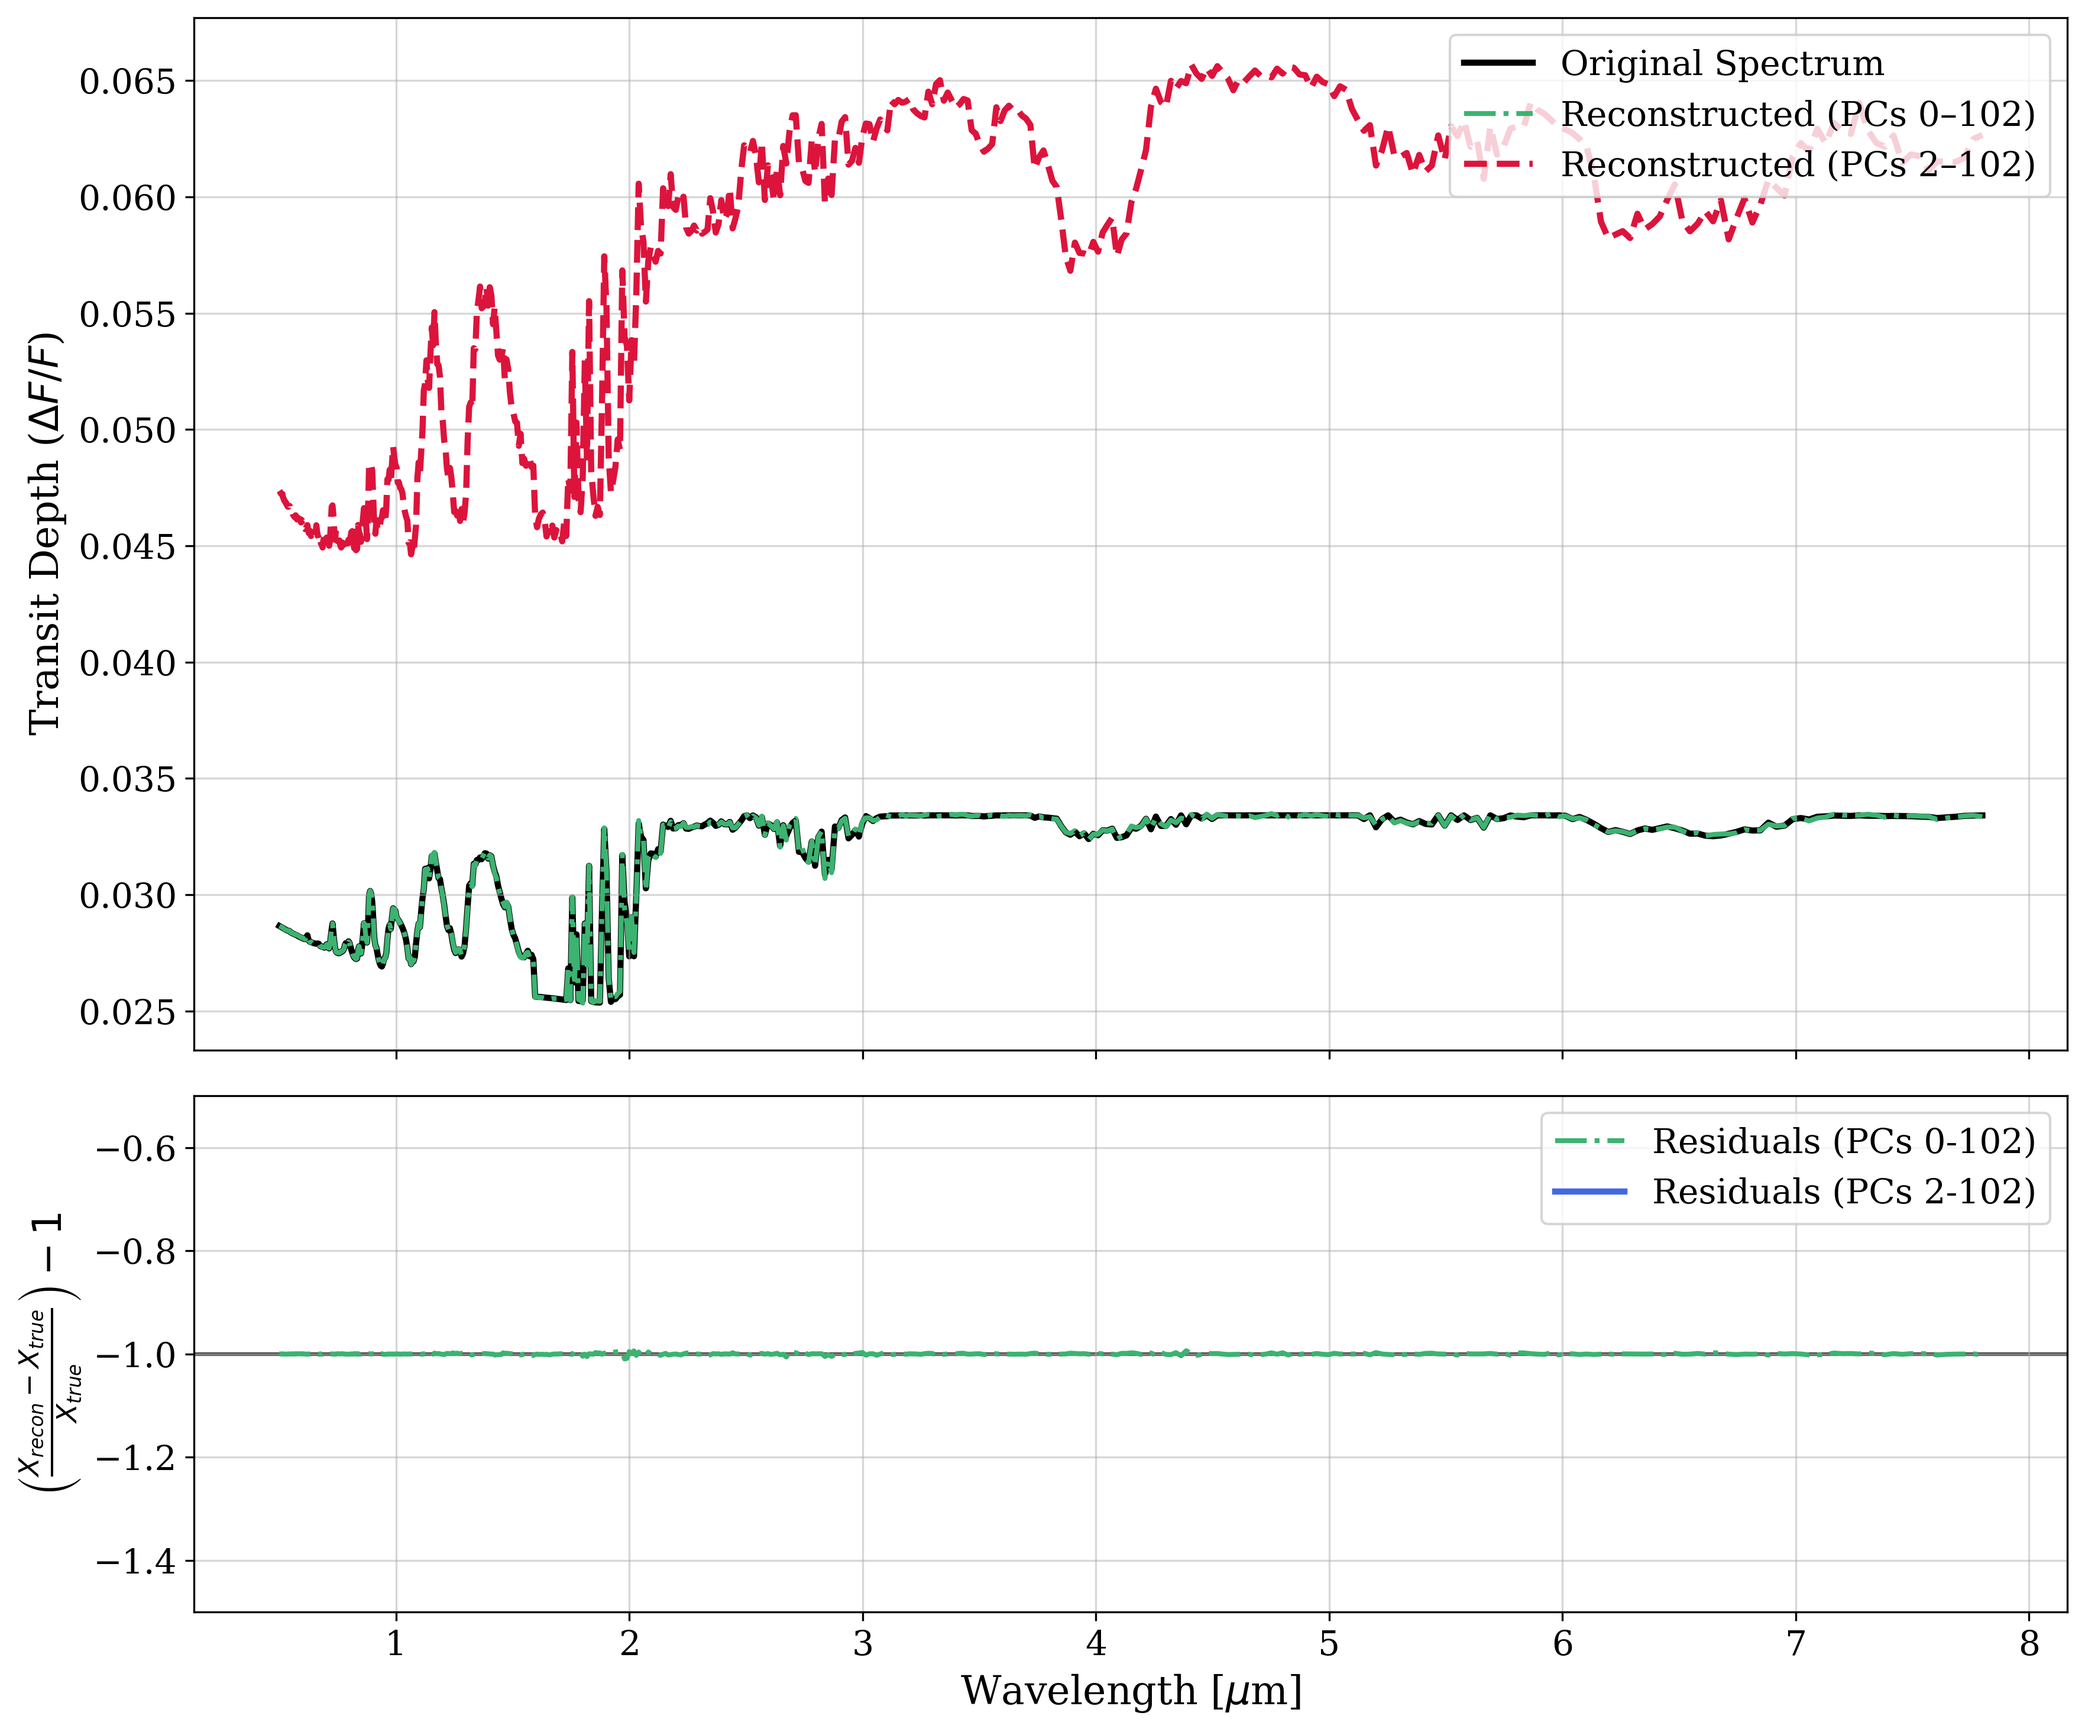
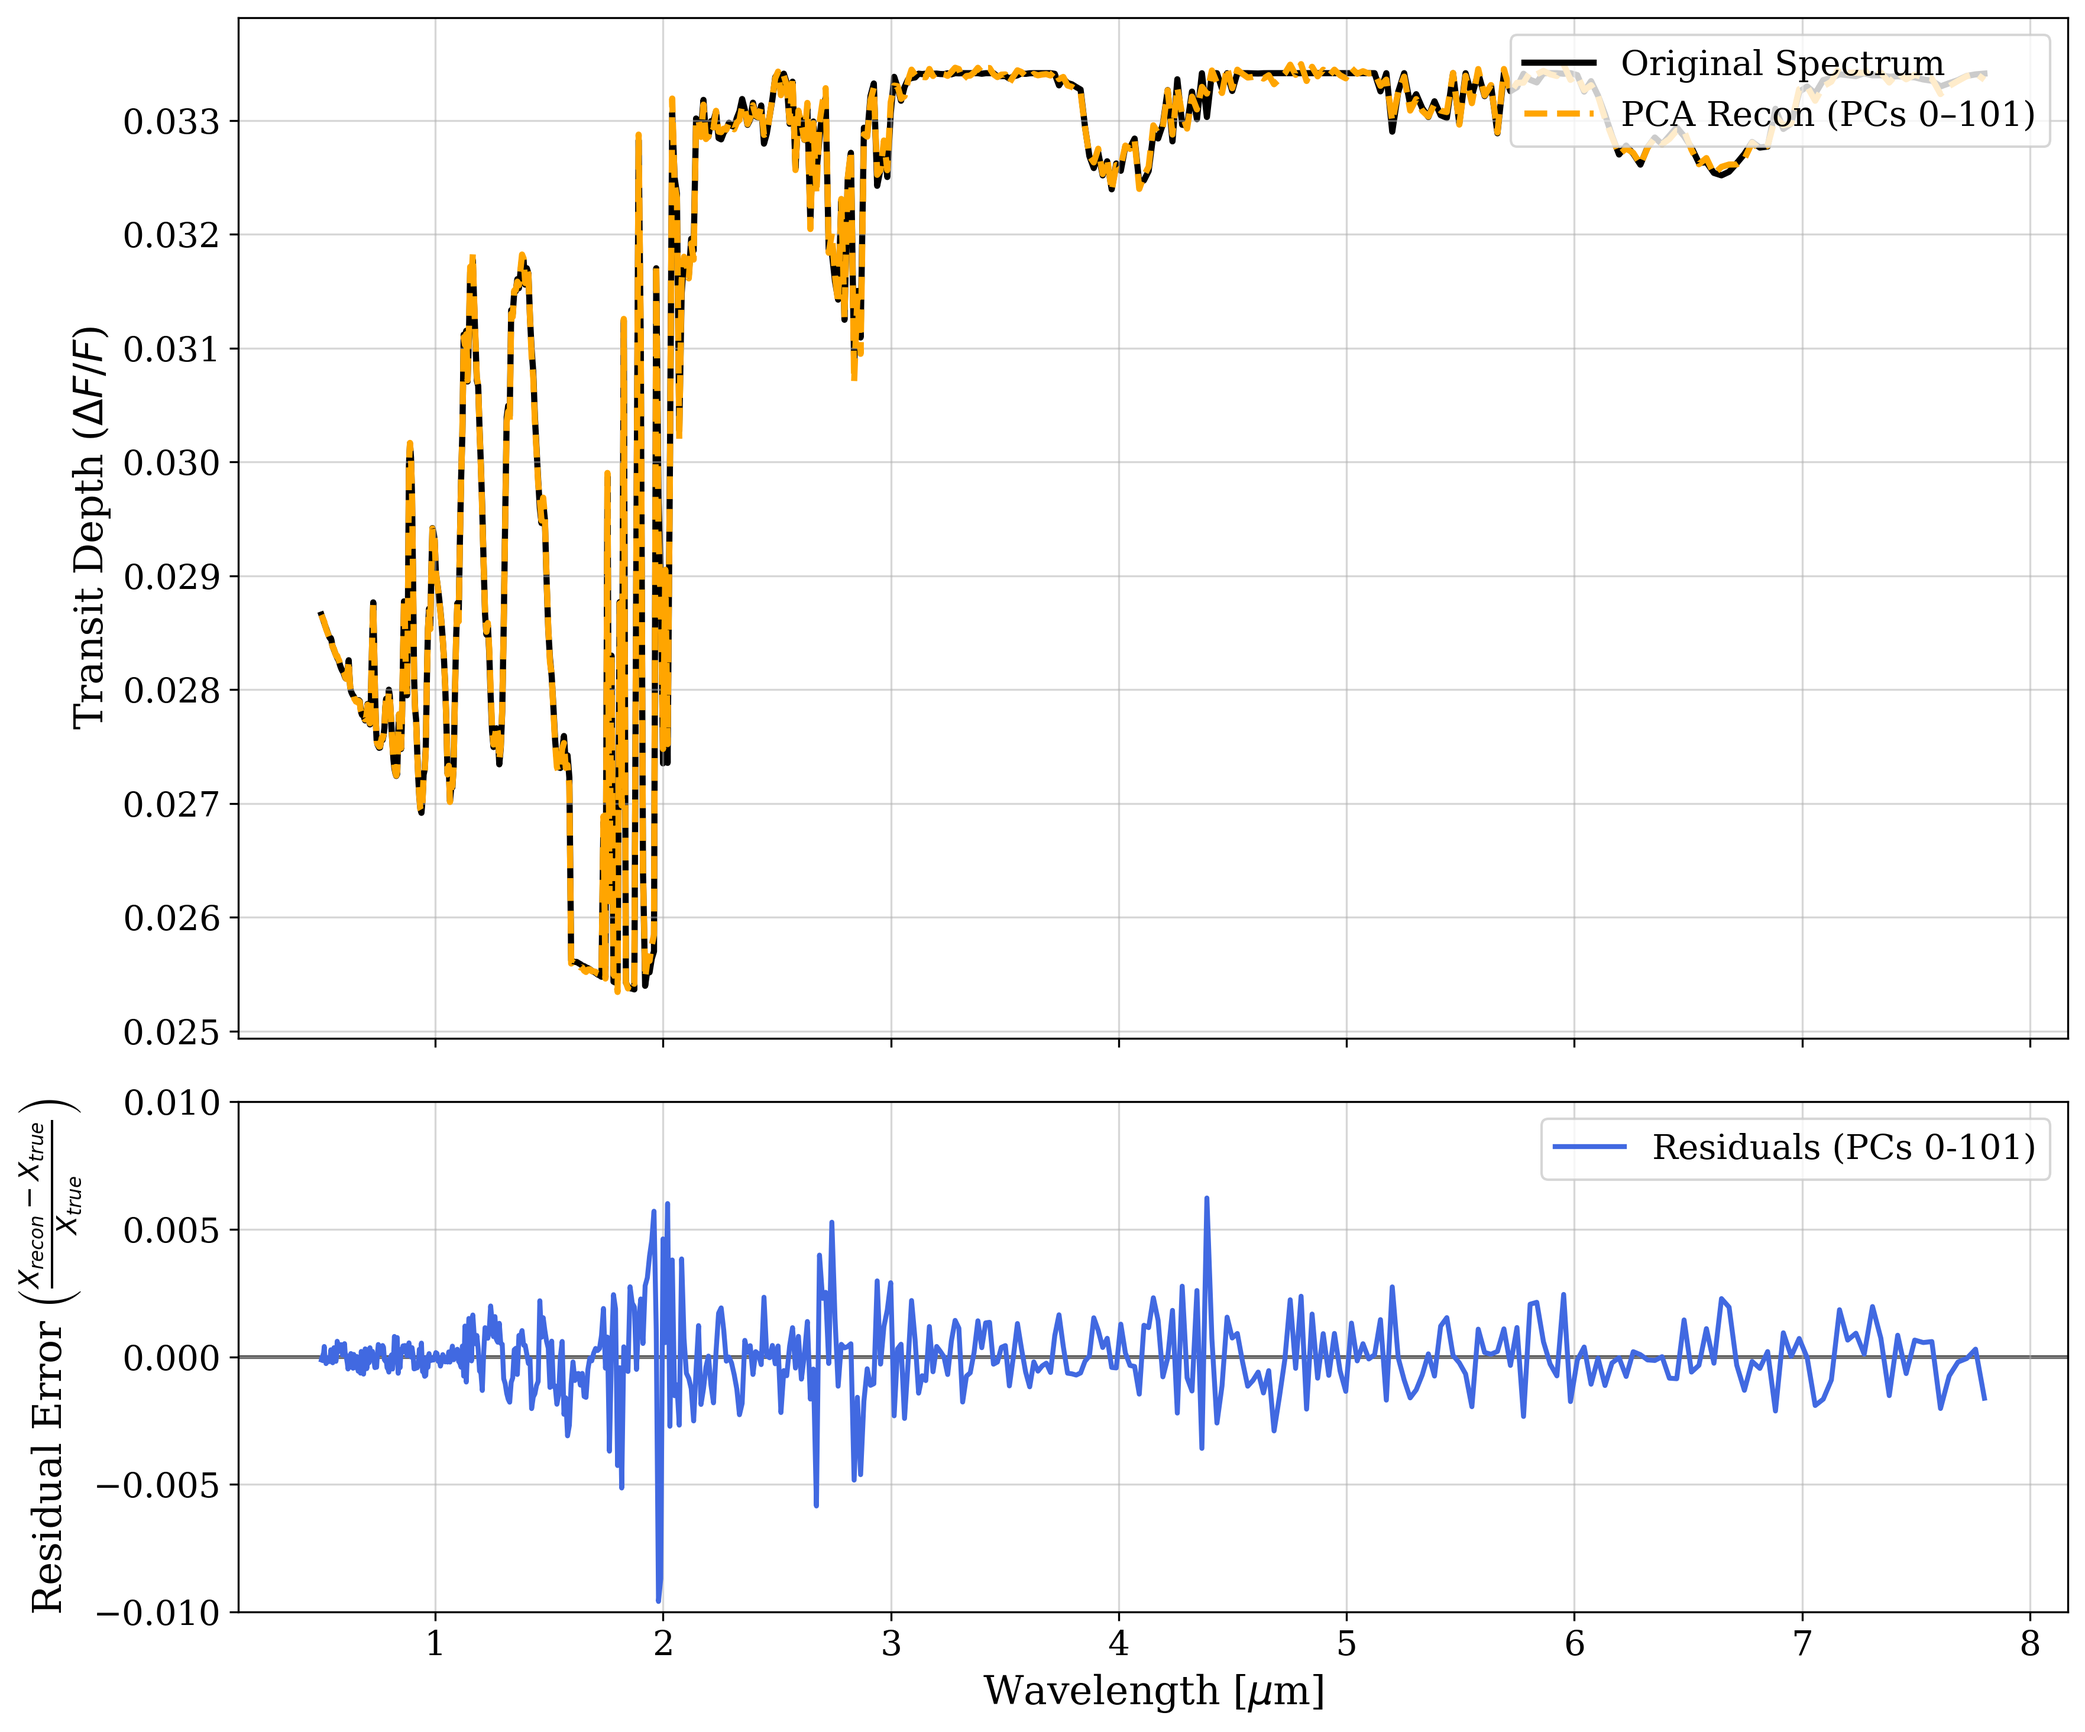
Regenerate Figure 1 spectra reconstruction and residuals plot with correct formulas and zoomed-in y-axis

diff --git a/generate_pca_two_panel_plot.py b/generate_pca_two_panel_plot.py
@@ -46,13 +46,7 @@ SPECTRUM_IDX = 0
 original_scaled = scaler.transform(X[SPECTRUM_IDX].reshape(1, -1))
 pca_transformed = pca.transform(original_scaled)
 
-# 1. Reconstruction with ONLY components 2-102
-pca_subset_2_102 = np.zeros_like(pca_transformed)
-pca_subset_2_102[:, 2:102] = pca_transformed[:, 2:102]
-recon_scaled_2_102 = pca.inverse_transform(pca_subset_2_102)
-recon_flux_2_102 = scaler.inverse_transform(recon_scaled_2_102)[0]
-
-# 2. Reconstruction WITH components 0, 1 (0-102)
+# Reconstruction with components 0 to 101 (0:102)
 pca_subset_0_102 = np.zeros_like(pca_transformed)
 pca_subset_0_102[:, 0:102] = pca_transformed[:, 0:102]
 recon_scaled_0_102 = pca.inverse_transform(pca_subset_0_102)
@@ -60,33 +54,27 @@ recon_flux_0_102 = scaler.inverse_transform(recon_scaled_0_102)[0]
 
 true_flux = X[SPECTRUM_IDX]
 
-# Calculate Residuals
-residuals_2_102 = ((recon_flux_2_102 - true_flux) / (true_flux + 1e-9)) - 1
-residuals_0_102 = ((recon_flux_0_102 - true_flux) / (true_flux + 1e-9)) - 1
+# Calculate Residuals (Standard fractional residual, no -1 offset)
+residuals_0_102 = (recon_flux_0_102 - true_flux) / (true_flux + 1e-9)
 
 # --- Generate Two-Panel Plot ---
 print("--- Generating Two-Panel Visualization ---")
 fig, (ax1, ax2) = plt.subplots(2, 1, figsize=(12, 10), sharex=True, gridspec_kw={'height_ratios': [2, 1]})
 
 # Top Panel: Original vs Reconstructed
-# Make lines more prominent (linewidth 2.5)
 ax1.plot(wavelengths, true_flux, color='black', linewidth=2.5, label='Original Spectrum', zorder=1)
-ax1.plot(wavelengths, recon_flux_0_102, color='mediumseagreen', linestyle='-.', linewidth=2.0, label='Reconstructed (PCs 0–102)', zorder=2)
-ax1.plot(wavelengths, recon_flux_2_102, color='crimson', linestyle='--', linewidth=2.5, label='Reconstructed (PCs 2–102)', zorder=3)
+ax1.plot(wavelengths, recon_flux_0_102, color='orange', linestyle='--', linewidth=2.5, label='PCA Recon (PCs 0–101)', zorder=2)
 ax1.set_ylabel(r'Transit Depth ($\Delta F/F$)')
-# Removed Title as requested by reviewer
 ax1.legend(loc='upper right')
 ax1.grid(True, linestyle='-', alpha=0.5)
 
-# Bottom Panel: Residual Error
-ax2.plot(wavelengths, residuals_0_102, color='mediumseagreen', linestyle='-.', linewidth=2.0, label='Residuals (PCs 0-102)', zorder=2)
-ax2.plot(wavelengths, residuals_2_102, color='royalblue', linewidth=2.5, label='Residuals (PCs 2-102)', zorder=3)
-ax2.axhline(-1, color='black', linestyle='-', linewidth=1.5, alpha=0.7, zorder=1) 
+# Bottom Panel: Residual Error (Centered at 0, zoomed to [-0.01, 0.01])
+ax2.plot(wavelengths, residuals_0_102, color='royalblue', linewidth=2.0, label='Residuals (PCs 0-101)', zorder=2)
+ax2.axhline(0, color='black', linestyle='-', linewidth=1.5, alpha=0.7, zorder=1) 
 
 ax2.set_xlabel(r'Wavelength [$\mu$m]')
-# Use LaTeX format for nicer Y-axis label
-ax2.set_ylabel(r'$\left( \frac{X_{recon} - X_{true}}{X_{true}} \right) - 1$')
-ax2.set_ylim(-1.5, -0.5) 
+ax2.set_ylabel(r'Residual Error $\left( \frac{X_{recon} - X_{true}}{X_{true}} \right)$')
+ax2.set_ylim(-0.010, 0.010) 
 ax2.grid(True, linestyle='-', alpha=0.5)
 ax2.legend(loc='upper right')
 
